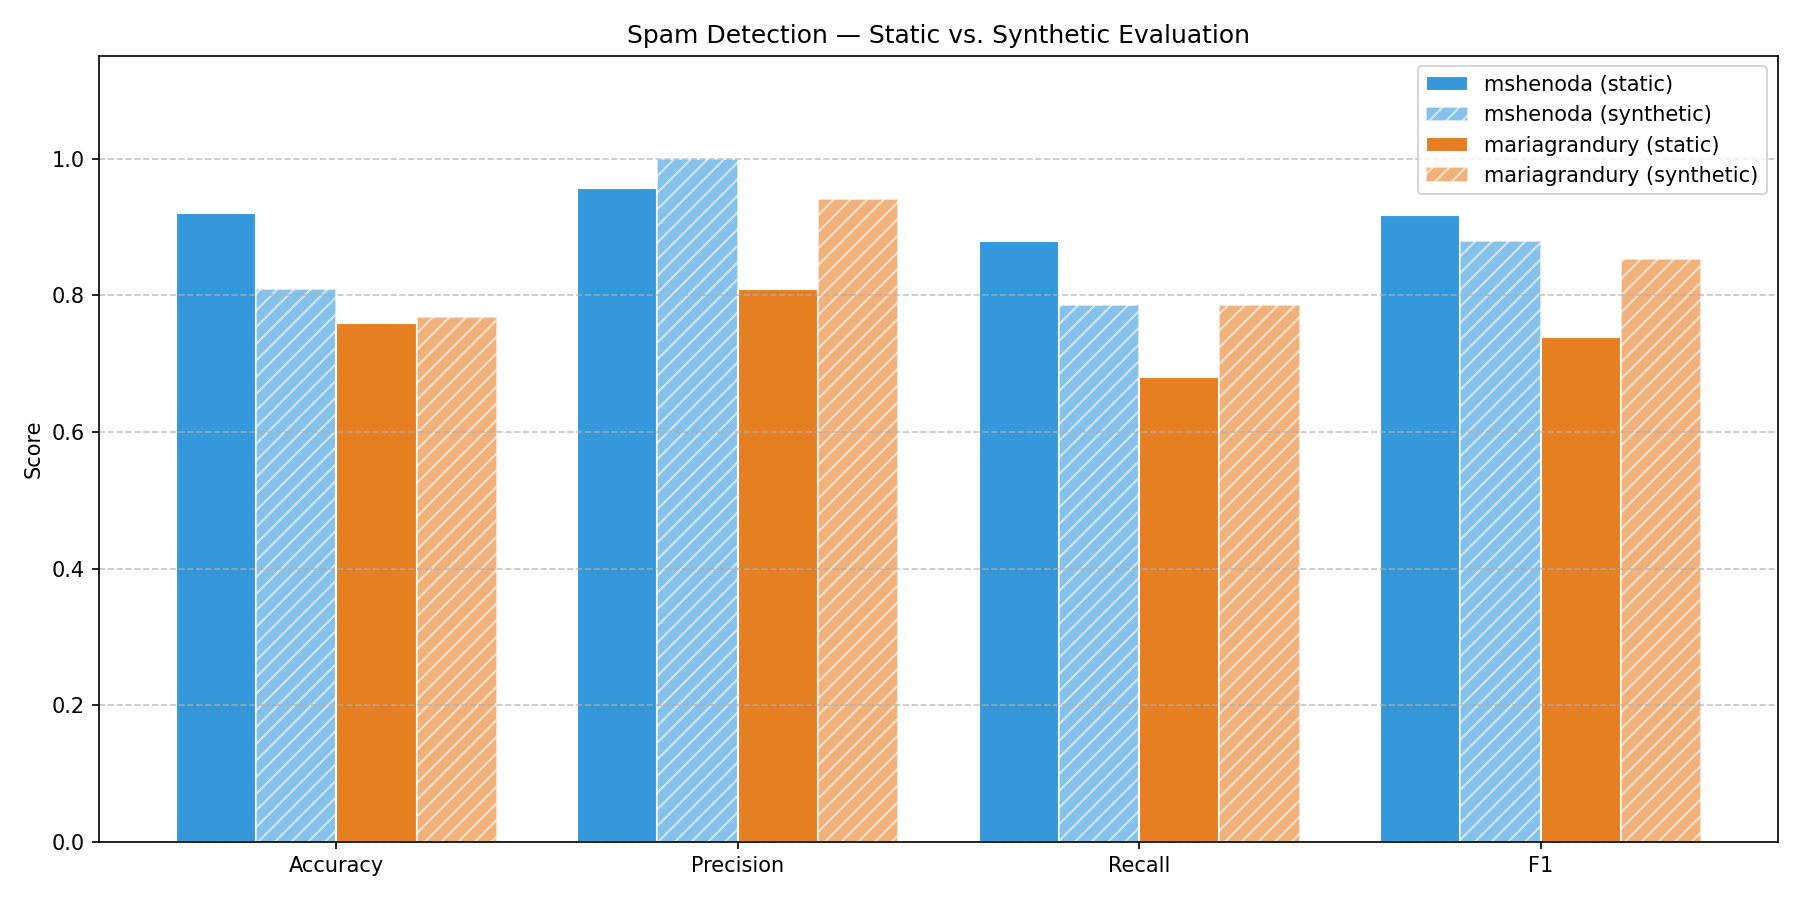
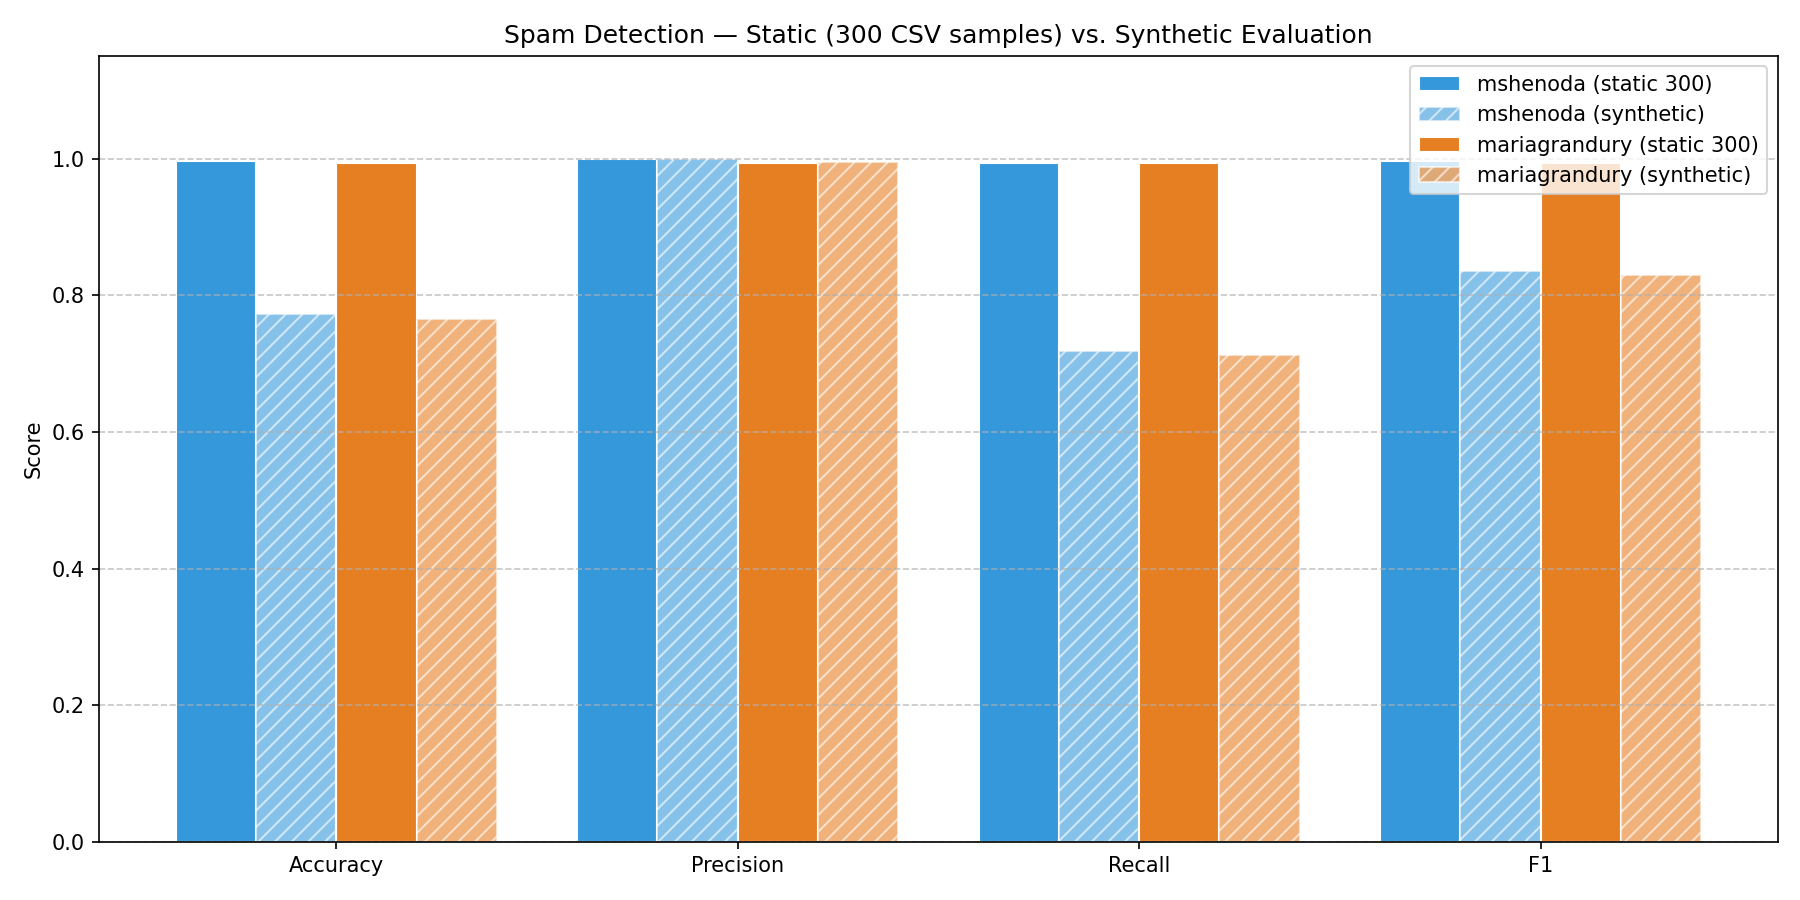
feat: update notebook to CSV benchmark, add local CSV loading to pipeline
- spam_detection.ipynb: static eval now loads all 300 samples from sms_spam_sample_300.csv instead of 50 from HuggingFace
- pipeline.py: implement local CSV/TSV dataset loading (was NotImplementedError)
- config.yaml: switch to local CSV source, deepseek/deepseek-v4-flash generator, 1 run

diff --git a/framework/pipeline.py b/framework/pipeline.py
@@ -96,10 +96,25 @@ def load_real_data(config: dict, task: BaseTask) -> list[dict]:
     sample_size = ds_config["sample_size"]
 
     if ds_config.get("source", "huggingface") == "local":
-        raise NotImplementedError(
-            "Local dataset loading is not yet implemented. "
-            "Contribute it in pipeline.load_real_data()."
-        )
+        import csv as _csv
+        local_path = ds_config.get("local_path")
+        if not local_path:
+            raise ValueError("dataset.local_path is required when source: local")
+        fmt = ds_config.get("format", "csv")
+        if fmt not in ("csv", "tsv"):
+            raise NotImplementedError(f"Local format '{fmt}' is not yet supported.")
+        delimiter = "\t" if fmt == "tsv" else ","
+        print(f"Loading local dataset: {local_path} ...")
+        samples = []
+        with open(local_path, encoding="utf-8", newline="") as _f:
+            for row in _csv.DictReader(_f, delimiter=delimiter):
+                parsed = task.parse_row(row)
+                if parsed is not None:
+                    samples.append(parsed)
+                if len(samples) >= sample_size:
+                    break
+        print(f"Loaded {len(samples)} real samples.")
+        return samples
 
     print(f"Loading dataset: {ds_config['name']} ...")
     hf_token = (